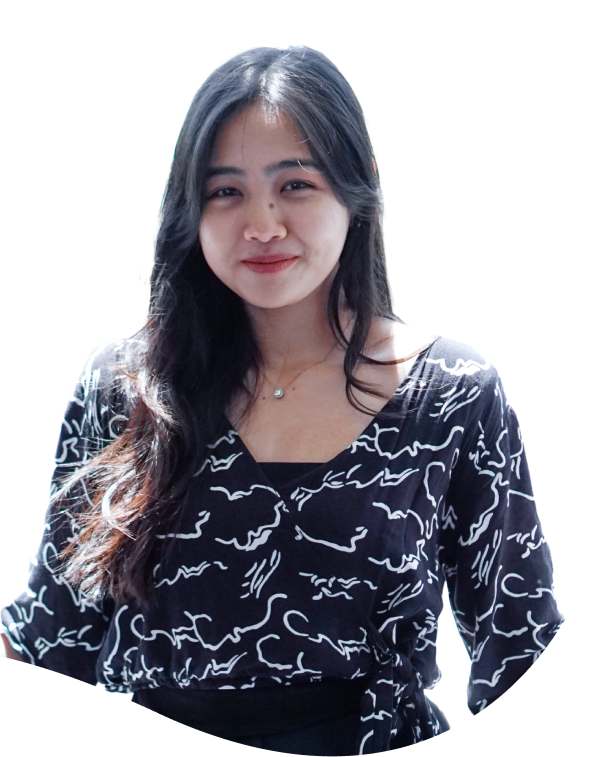
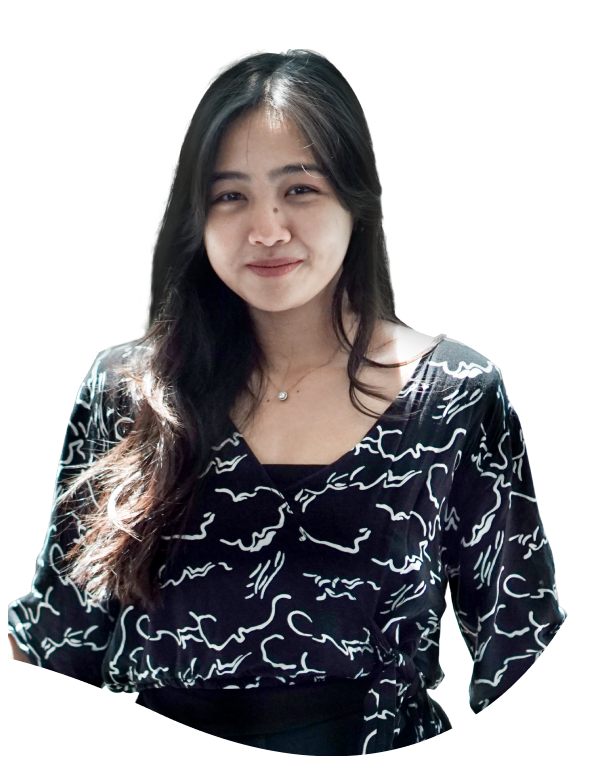
Adjust hero-photo and position

Changed region(s): [[0.0, 0.0608, 0.9648, 1.0]]

diff --git a/pages/index.tsx b/pages/index.tsx
@@ -53,7 +53,7 @@ const Home: NextPage = () => {
             <Image src='/asset2.png' width='180' height='180' alt='asset2' />
           </div>
           <div className='hero-asset3'>
-            <Image src='/asset3.png' width='180' height='180' alt='asset3' />
+            <Image src='/asset3.png' width='150' height='150' alt='asset3' />
           </div>
         </div>
       </HeroBackgroundImage>
@@ -84,7 +84,7 @@ export const HomeStyled = styled.div`
 `
 export const HeroBackgroundImage = styled.div`
   position: absolute;
-  top: 93px;
+  top: 60px;
   left: 0;
   width: 901px;
   height: 867.39px;
@@ -115,12 +115,12 @@ export const HeroBackgroundImage = styled.div`
   }
   .hero-asset2 {
     right: -860px;
-    top: 100px;
+    top: 120px;
     z-index: 2;
   }
   .hero-asset3 {
-    right: 80px;
-    top: 40px;
+    right: 30px;
+    top: 60px;
     z-index: 2;
   }
 `

diff --git a/components/MyWorks.tsx b/components/MyWorks.tsx
@@ -138,5 +138,6 @@ export const CardContainer = styled.div`
     display: flex;
     justify-content: center;
     align-items: center;
+    cursor: pointer;
   }
 `
